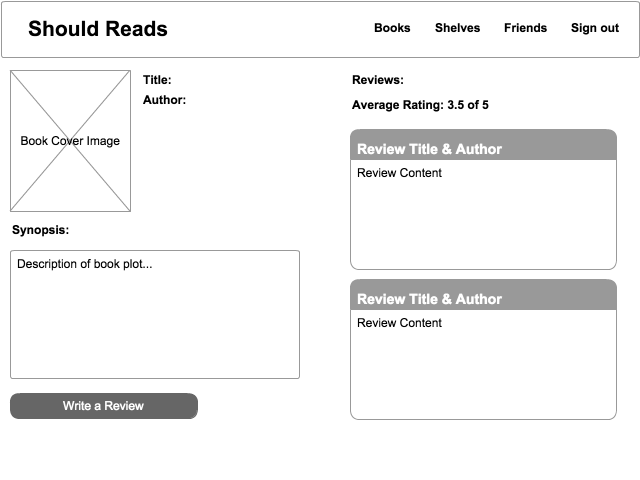
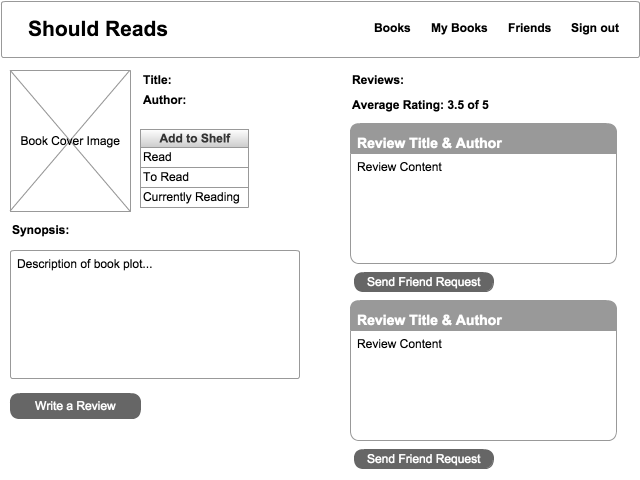
update wireframes with latest versions

diff --git a/docs/views.md b/docs/views.md
@@ -3,24 +3,24 @@
 ## New Session
 ![new-session]
 
-## Feed Show (landing page)
-![feed-show]
+## Book Shelves Index (landing page)
+![book-shelves-index]
 
-## Blog Show
-![blog-show]
+## Book Show
+![book-show]
 
-## Post Show
-![post-show]
+## Books Index
+![books-index]
 
-## Post Form
-![post-form]
+## Review Form
+![review-form]
 
-## Search Results
-![search-results]
+## Friendships Index
+![friendships_index]
 
-[new-session]: ./wireframes/new_session.png
-[feed-show]: ./wireframes/feed_show.png
-[blog-show]: ./wireframes/blog_show.png
-[post-show]: ./wireframes/post_show.png
-[post-form]: ./wireframes/post_form.png
-[search-results]: ./wireframes/search_results.png
+[new-session]: ./wireframes/log_in.png
+[book-shelves-index]: ./wireframes/book_shelves_index.png
+[book-show]: ./wireframes/book_show.png
+[books-index]: ./wireframes/books_index.png
+[review-form]: ./wireframes/review_form.png
+[friendships_index]: ./wireframes/friendships_index.png
